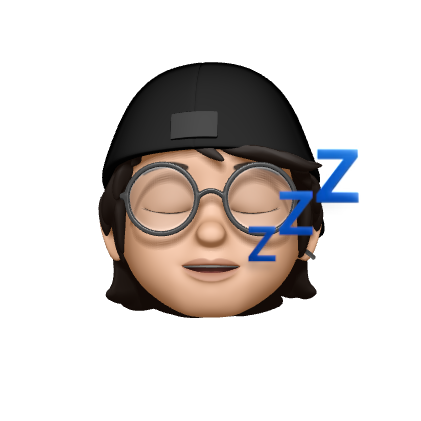
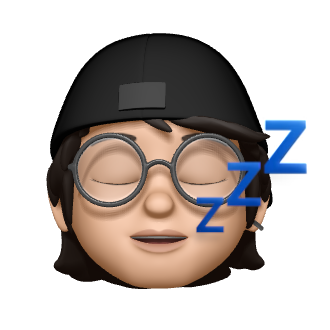
hotfix menu and added new image

diff --git a/_includes/navigation.html b/_includes/navigation.html
@@ -1,19 +1,19 @@
-<div class="px-4 py-5 mx-auto sm:max-w-xl md:max-w-full lg:max-w-screen-xl md:px-24 lg:px-8">
+<div class="px-4 py-3 mx-auto sm:max-w-xl md:max-w-full lg:max-w-screen-xl md:px-24 lg:px-8">
   <div class="relative flex items-center justify-between">
     <a href="/" aria-label="Company" title="Company" class="inline-flex items-center">
-      <!-- <svg class="w-8 text-deep-purple-accent-400" viewBox="0 0 24 24" stroke-linejoin="round" stroke-width="2" stroke-linecap="round" stroke-miterlimit="10" stroke="currentColor" fill="none">
+      <svg class="w-8 text-deep-purple-accent-400" viewBox="0 0 24 24" stroke-linejoin="round" stroke-width="2" stroke-linecap="round" stroke-miterlimit="10" stroke="currentColor" fill="none">
         <rect x="3" y="1" width="7" height="12"></rect>
         <rect x="3" y="17" width="7" height="6"></rect>
         <rect x="14" y="1" width="7" height="6"></rect>
         <rect x="14" y="11" width="7" height="12"></rect>
-      </svg> -->
+      </svg>
       <span class="ml-2 text-lg font-bold tracking-wide text-gray-800 uppercase">MWF's Portfolio</span>
     </a>
     <ul class="items-center hidden space-x-8 lg:flex">
       <li><a href="/" aria-label="Home" title="Home" class="font-medium tracking-wide text-gray-700 transition-colors duration-200 hover:text-deep-purple-accent-400">Home</a></li>
-      <li><a href="/portfolio" aria-label="Projects" title="Projects" class="font-medium tracking-wide text-gray-700 transition-colors duration-200 hover:text-deep-purple-accent-400">Projects</a></li>
+      <li><a href="/portfolio" aria-label="Portfolio" title="Portfolio" class="font-medium tracking-wide text-gray-700 transition-colors duration-200 hover:text-deep-purple-accent-400">Portfolio</a></li>
       <li><a href="/resume" aria-label="Resume" title="Resume" class="font-medium tracking-wide text-gray-700 transition-colors duration-200 hover:text-deep-purple-accent-400">Resume</a></li>
-      <li><a href="/assets/pdf/man-wing-fai-resume.pdf" download  aria-label="Resume" title="Resume" class="font-medium tracking-wide text-gray-700 transition-colors duration-200 hover:text-deep-purple-accent-400">Download</a></li>
+      <li><a href="/assets/pdf/man-wing-fai-resume.pdf" download aria-label="Resume" title="Resume" class="font-medium tracking-wide text-gray-700 transition-colors duration-200 hover:text-deep-purple-accent-400">Download</a></li>
      </ul>
     <ul class="items-center hidden space-x-6 lg:flex">
       <li><a target="_blank" href="https://github.com/{{site.github_username}}" aria-label="Github" title="Github" class="font-medium tracking-wide text-gray-700 transition-colors duration-200 hover:text-deep-purple-accent-400">
@@ -49,31 +49,20 @@
           d="M5 35.7622C6.92886 36.8286 20.8914 44.8773 30.8199 38.674C40.7483 32.4707 40.2006 21.7833 40.2006 16.886C41.1 15.0018 43 14.0439 43 8.9438C41.1337 10.6678 39.2787 11.2544 37.435 10.7036C35.6287 7.94957 33.1435 6.73147 29.9794 7.04934C25.2333 7.52614 23.4969 12.1825 24.0079 18.2067C16.6899 21.9074 10.9515 15.524 7.99418 10.7036C7.00607 14.4999 6.0533 19.0576 7.99418 24.0995C9.2881 27.4607 12.3985 30.3024 17.3254 32.6246C12.3323 35.3308 8.22382 36.3766 5 35.7622Z"
           fill="none" stroke="#333" stroke-width="4" stroke-linejoin="round" /></svg>
         </a></li>
-      <!-- <li><a href="/" aria-label="Home" title="Home" class="font-medium tracking-wide text-gray-700 transition-colors duration-200 hover:text-deep-purple-accent-400">Home</a></li>
-      <li><a href="/portfolio" aria-label="Projects" title="Projects" class="font-medium tracking-wide text-gray-700 transition-colors duration-200 hover:text-deep-purple-accent-400">Projects</a></li>
-      <li><a href="/resume" aria-label="Resume" title="Resume" class="font-medium tracking-wide text-gray-700 transition-colors duration-200 hover:text-deep-purple-accent-400">Resume</a></li> -->
-      <!-- <li>
-        <a
-          href="/assets/pdf/man-wing-fai-resume.pdf" download 
-          class="inline-flex items-center justify-center h-12 px-6 font-medium tracking-wide  transition duration-200 rounded shadow-md btn btn-primary"
-          aria-label="Sign up"
-          title="Sign up"
-        >
-        Download
-        </a>
-      </li> -->
     </ul>
     <!-- Mobile menu -->
+  
     <div class="lg:hidden">
-      <button aria-label="Open Menu" title="Open Menu" class="p-2 -mr-1 transition duration-200 rounded focus:outline-none focus:shadow-outline hover:bg-deep-purple-50 focus:bg-deep-purple-50">
+      <button id="open_menu" aria-label="Open Menu" title="Open Menu" class="p-2 -mr-1 transition duration-200 rounded focus:outline-none focus:shadow-outline hover:bg-purple-50 focus:bg-purple-50">
         <svg class="w-5 text-gray-600" viewBox="0 0 24 24">
           <path fill="currentColor" d="M23,13H1c-0.6,0-1-0.4-1-1s0.4-1,1-1h22c0.6,0,1,0.4,1,1S23.6,13,23,13z"></path>
           <path fill="currentColor" d="M23,6H1C0.4,6,0,5.6,0,5s0.4-1,1-1h22c0.6,0,1,0.4,1,1S23.6,6,23,6z"></path>
           <path fill="currentColor" d="M23,20H1c-0.6,0-1-0.4-1-1s0.4-1,1-1h22c0.6,0,1,0.4,1,1S23.6,20,23,20z"></path>
         </svg>
       </button>
-      <!-- Mobile menu dropdown 
-      <div class="absolute top-0 left-0 w-full">
+      
+      <!-- Mobile menu dropdown -->
+      <div class="mobile-menu hidden z-10 absolute top-0 left-0 w-full">
         <div class="p-5 bg-white border rounded shadow-sm">
           <div class="flex items-center justify-between mb-4">
             <div>
@@ -84,11 +73,11 @@
                   <rect x="14" y="1" width="7" height="6"></rect>
                   <rect x="14" y="11" width="7" height="12"></rect>
                 </svg>
-                <span class="ml-2 text-xl font-bold tracking-wide text-gray-800 uppercase">Company</span>
+                <span class="ml-2 text-lg font-bold tracking-wide text-gray-800 uppercase">MWF's Portfolio</span>
               </a>
             </div>
             <div>
-              <button aria-label="Close Menu" title="Close Menu" class="p-2 -mt-2 -mr-2 transition duration-200 rounded hover:bg-gray-200 focus:bg-gray-200 focus:outline-none focus:shadow-outline">
+              <button id="close_menu" aria-label="Close Menu" title="Close Menu" class="p-2 -mt-2 -mr-2 transition duration-200 rounded hover:bg-gray-200 focus:bg-gray-200 focus:outline-none focus:shadow-outline">
                 <svg class="w-5 text-gray-600" viewBox="0 0 24 24">
                   <path
                     fill="currentColor"
@@ -100,25 +89,37 @@
           </div>
           <nav>
             <ul class="space-y-4">
-              <li><a href="/" aria-label="Our product" title="Our product" class="font-medium tracking-wide text-gray-700 transition-colors duration-200 hover:text-deep-purple-accent-400">Product</a></li>
-              <li><a href="/" aria-label="Our product" title="Our product" class="font-medium tracking-wide text-gray-700 transition-colors duration-200 hover:text-deep-purple-accent-400">Features</a></li>
-              <li><a href="/" aria-label="Product pricing" title="Product pricing" class="font-medium tracking-wide text-gray-700 transition-colors duration-200 hover:text-deep-purple-accent-400">Pricing</a></li>
-              <li><a href="/" aria-label="About us" title="About us" class="font-medium tracking-wide text-gray-700 transition-colors duration-200 hover:text-deep-purple-accent-400">About us</a></li>
+              <li><a href="/" aria-label="Home" title="Home" class="font-medium tracking-wide text-gray-700 transition-colors duration-200 hover:text-deep-purple-accent-400">Home</a></li>
+              <li><a href="/portfolio" aria-label="Portfolio" title="Portfolio" class="font-medium tracking-wide text-gray-700 transition-colors duration-200 hover:text-deep-purple-accent-400">Portfolio</a></li>
+              <li><a href="/resume" aria-label="Resume" title="Resume" class="font-medium tracking-wide text-gray-700 transition-colors duration-200 hover:text-deep-purple-accent-400">Resume</a></li>
               <li>
                 <a
-                  href="/"
-                  class="inline-flex items-center justify-center w-full h-12 px-6 font-medium tracking-wide text-white transition duration-200 rounded shadow-md bg-deep-purple-accent-400 hover:bg-deep-purple-accent-700 focus:shadow-outline focus:outline-none"
+                  href="/assets/pdf/man-wing-fai-resume.pdf" download 
+                  class="inline-flex items-center justify-center w-full h-12 px-6 font-medium tracking-wide transition duration-200 btn btn-primary"
                   aria-label="Sign up"
                   title="Sign up"
                 >
-                  Sign up
+                  Download
                 </a>
               </li>
             </ul>
           </nav>
         </div>
       </div>
-      -->
+      <script>
+        document.getElementById("open_menu").onclick = function toggleMenu() {
+          const navToggle = document.getElementsByClassName("mobile-menu");
+          for (let i = 0; i < navToggle.length; i++) {
+            navToggle.item(i).classList.toggle("hidden");
+          }
+        };
+        document.getElementById("close_menu").onclick = function toggleMenu() {
+          const navToggle = document.getElementsByClassName("mobile-menu");
+          for (let i = 0; i < navToggle.length; i++) {
+            navToggle.item(i).classList.toggle("hidden");
+          }
+        };
+      </script>
     </div>
   </div>
 </div>

diff --git a/resume.html b/resume.html
@@ -127,7 +127,7 @@ title: Resume
              <div class="grid grid-cols-2 gap-5">
             <img class="object-cover w-full h-72 col-span-2 rounded shadow-lg" src="/assets/images/IMG_5990.jpg" alt="" />
             <img class="object-cover w-full h-56 rounded shadow-lg" src="/assets/images/IMG_59734.jpg" alt="" />
-            <img class="object-cover w-full h-56 rounded shadow-lg" src="https://images.pexels.com/photos/3184291/pexels-photo-3184291.jpeg?auto=compress&amp;cs=tinysrgb&amp;dpr=2&amp;h=750&amp;w=1260" alt="" />
+            <img class="object-cover w-full h-56 rounded shadow-lg" src="/assets/images/IMG_6048.jpg" alt="" />
           </div>
           </div>
 
@@ -152,8 +152,8 @@ title: Resume
     <div class="grid gap-6 md:grid-cols-2 lg:grid-cols-6">
         <div class="relative md:col-span-2 lg:col-span-2">
             <img
-              class="inset-0 object-cover object-bottom w-full h-56 rounded shadow-lg lg:absolute lg:h-full"
-              src="/assets/images/IMG_1440.JPG"
+              class="inset-0 object-cover object-center w-full h-56 rounded shadow-lg lg:absolute lg:h-full"
+              src="/assets/images/IMG_3770.JPG"
               alt=""
             />
           </div>

diff --git a/index.html b/index.html
@@ -1,6 +1,7 @@
 ---
 layout: default
 title: Home
+icon: IMG_5789.PNG
 ---
 
 <section
@@ -11,8 +12,8 @@ title: Home
         <a href="/" class="mb-6 mx-auto">
           <div class="flex items-center justify-center w-40 h-40 rounded-full ">
             <div class="avatar">
-              <div class="mb-20 rounded-full w-40 h-40 ring ring-primary ring-offset-blue-700 ring-offset-4">
-                <img src="/assets/images/IMG_5789.PNG">
+              <div class="mb-20 rounded-full w-40 h-40 bg-blue-100 ring ring-primary ring-offset-blue-700 ring-offset-4">
+                <img src="/assets/images/{{page.icon}}">
               </div>
             </div>
           </div>

diff --git a/_includes/footer.html b/_includes/footer.html
@@ -1,8 +1,7 @@
 <div class="pt-20 pb-12 footer bg-base-300 text-base-content footer-center">
     <div class="grid grid-cols-4 gap-4">
         <a href="/" class="link link-hover">Home</a>
-        <a href="/portfolio" class="link link-hover">Projects</a>
-        <!-- <a href="/#contact" class="link link-hover">Contact</a> -->
+        <a href="/portfolio" class="link link-hover">Portfolio</a>
         <a href="/resume" class="link link-hover">Resume</a>
         <a href="/assets/pdf/man-wing-fai-resume.pdf" download class="link link-hover">Download</a>
     </div>
